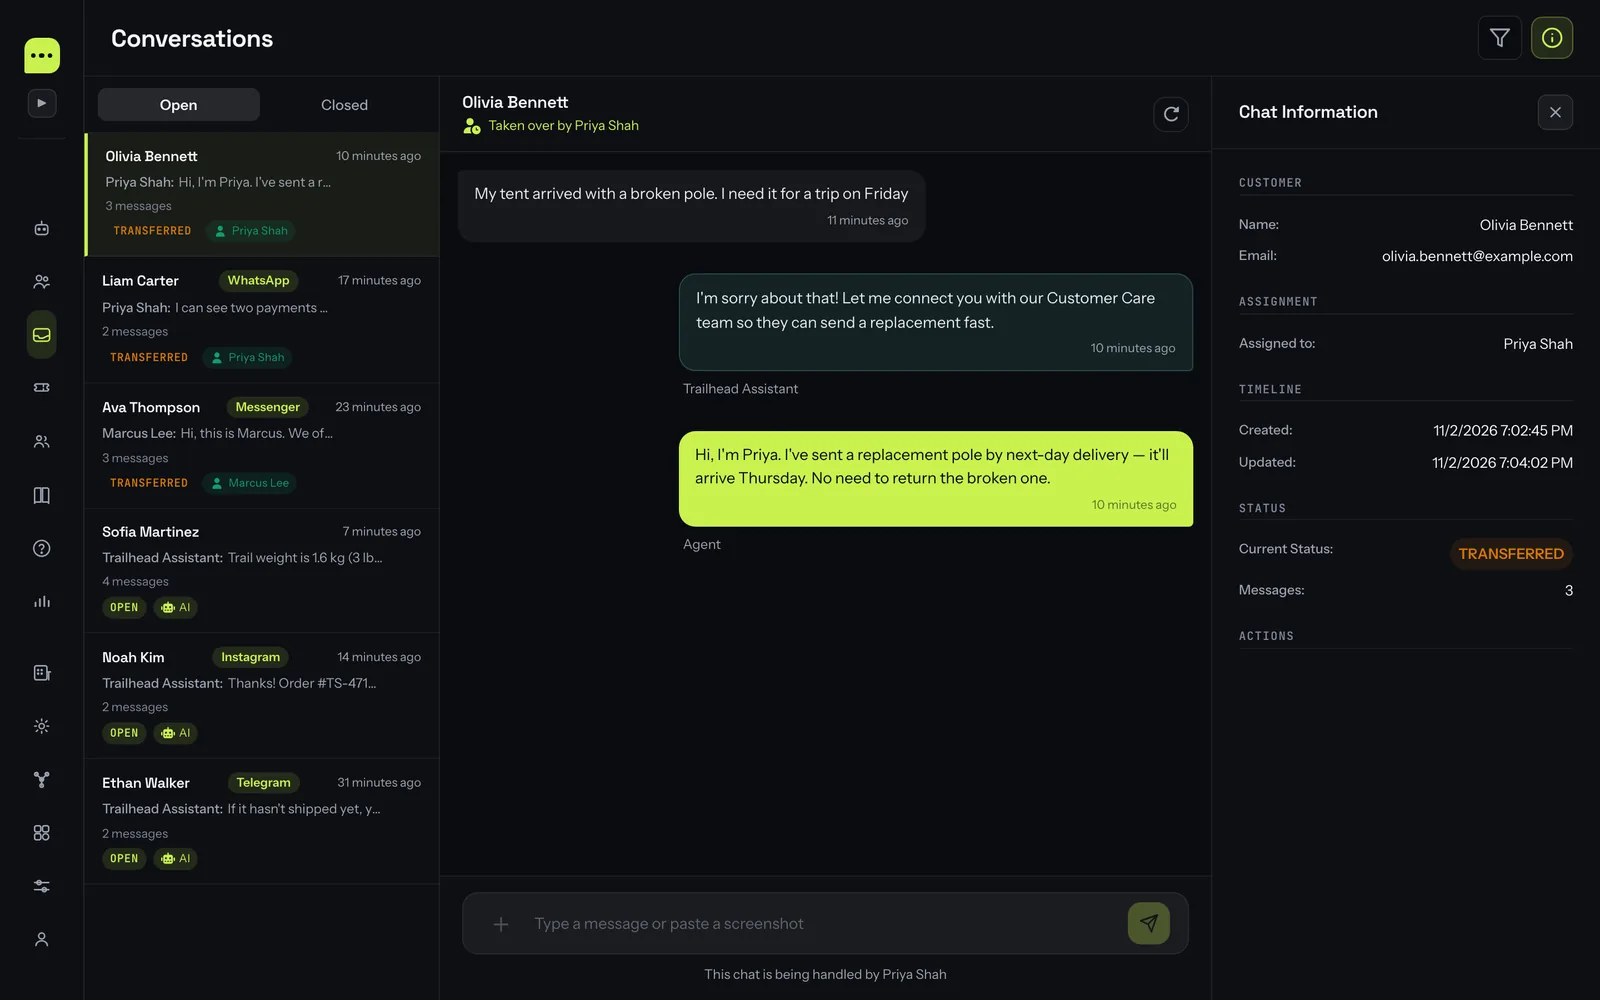
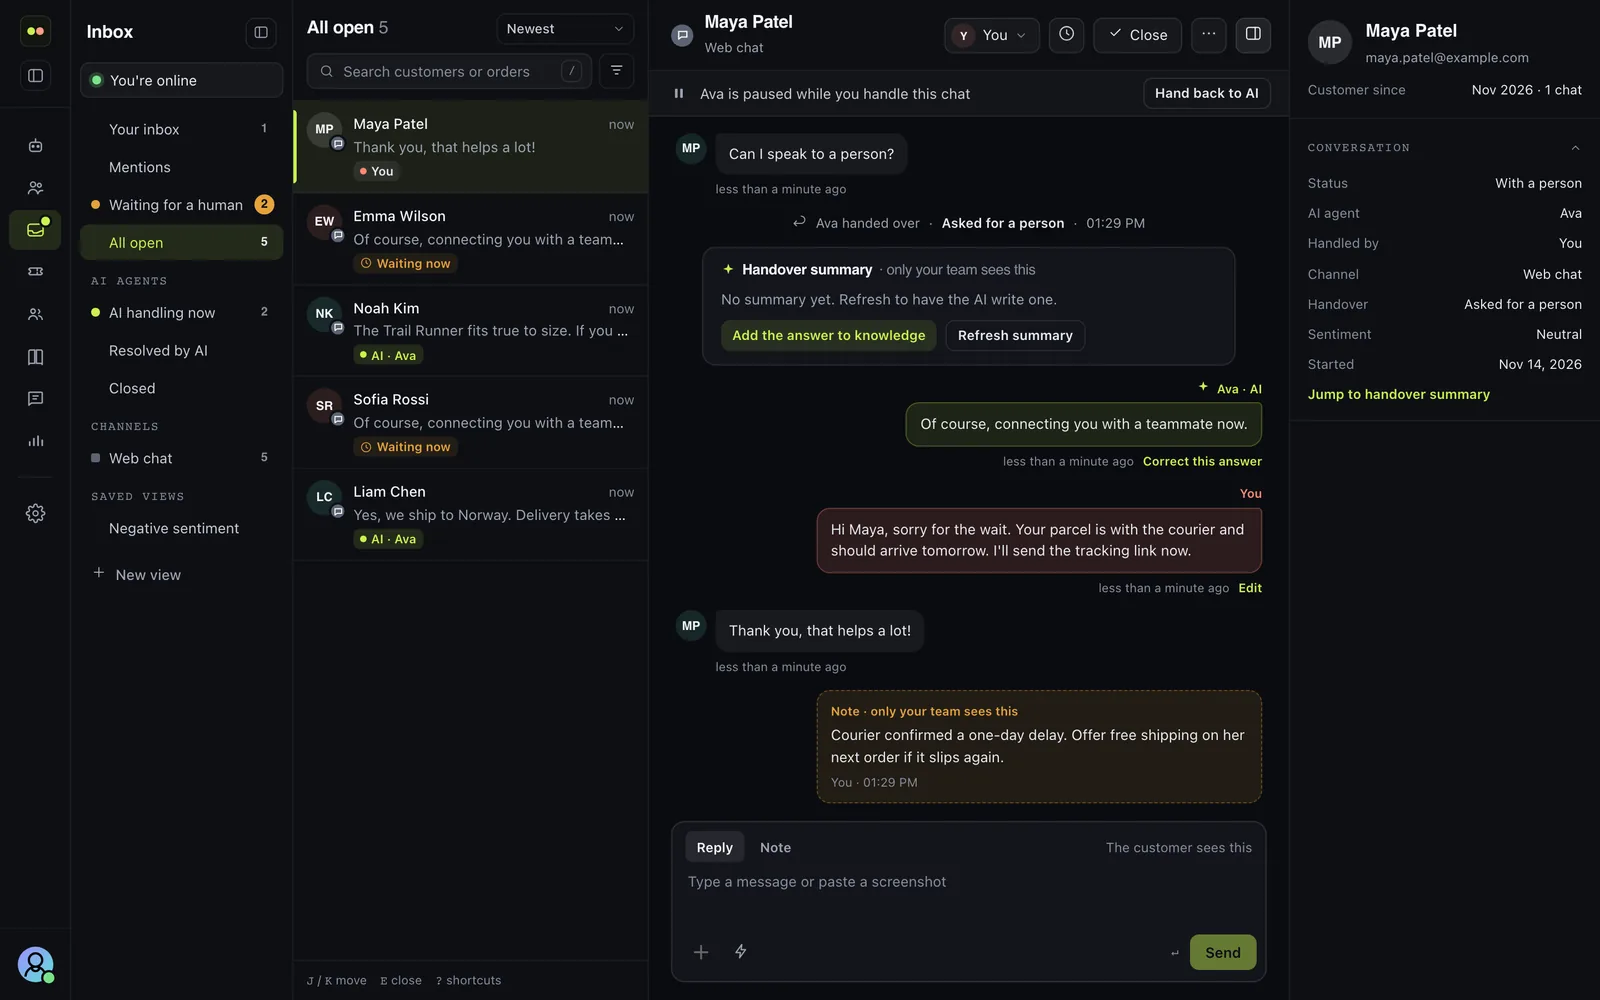
README: the new inbox in the screenshots and the features table

diff --git a/README.md b/README.md
@@ -16,7 +16,7 @@
 <p align="center">
   <picture>
     <source media="(prefers-color-scheme: dark)" srcset=".github/images/inbox-dark.webp">
-    <img src=".github/images/inbox-light.webp" alt="ChatterMate shared inbox: AI and human agents answering customers from the web widget, WhatsApp, Messenger, Instagram and Telegram">
+    <img src=".github/images/inbox-light.webp" alt="ChatterMate shared inbox: views for waiting and AI-handled chats, a conversation a teammate took over from the AI with an internal note, and the customer details panel">
   </picture>
 </p>
 
@@ -75,6 +75,7 @@ ChatterMate is a **no-code AI customer support platform** that enables businesse
 | Feature | Description |
 |---------|-------------|
 | 🤝 **Smart Human Handoff** | Intelligent AI-to-human transfer with **business hours awareness**, real-time availability detection, and context-aware escalation messages. |
+| 📥 **Shared Inbox** | One inbox for every chat the AI and your team handle, across all channels: views for chats waiting for a person, yours, mentions and AI-handled chats, **internal notes with @mentions**, editing a reply you sent, keyboard shortcuts and a customer details panel. The hosted service adds snooze, saved replies, saved views and AI help with drafts and summaries. |
 | 🛍 **Shopify & E-commerce Support** | Native **Shopify integration** ([App Store listing](https://apps.shopify.com/chattermate-chat)) — answer order, shipping, and product questions from store data. Works for any online store. |
 | 📝 **WordPress Plugin** | Official **WordPress plugin** ([download](https://github.com/chattermate/chattermate-wordpress-plugin/releases/latest/download/chattermate-chat.zip)) — add the chat widget to any WordPress site by entering your Widget ID. No theme edits required. |
 | 🧠 **Multi-Model AI Support** | Choose your AI provider — **OpenAI**, **Anthropic (Claude)**, **Google Gemini**, **Mistral**, **xAI (Grok)**, **DeepSeek**, and **Groq** — with your own API key, or enter a custom model ID. Switch providers anytime without code changes. |
